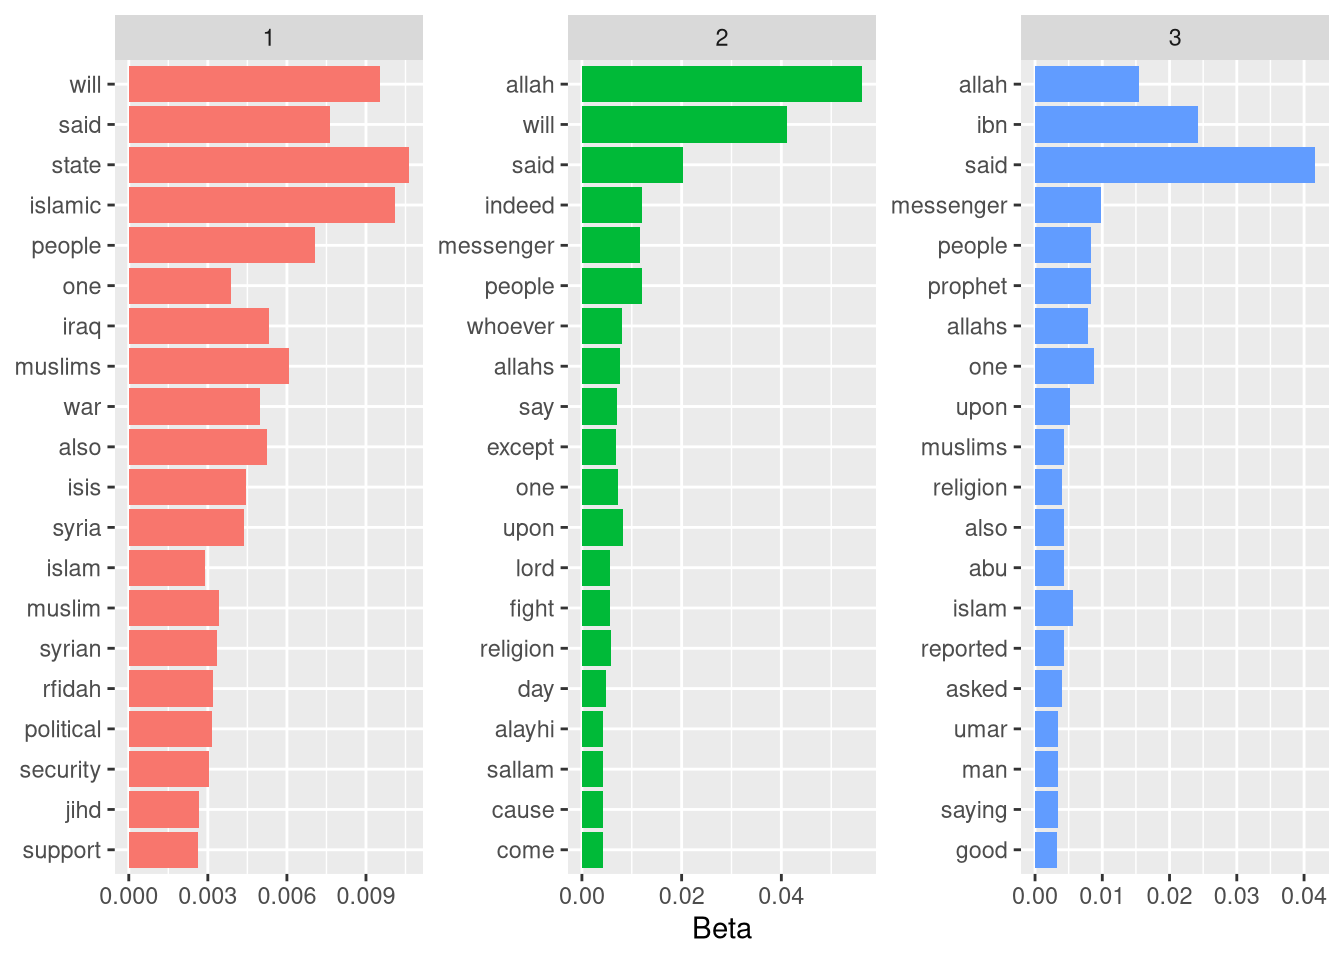
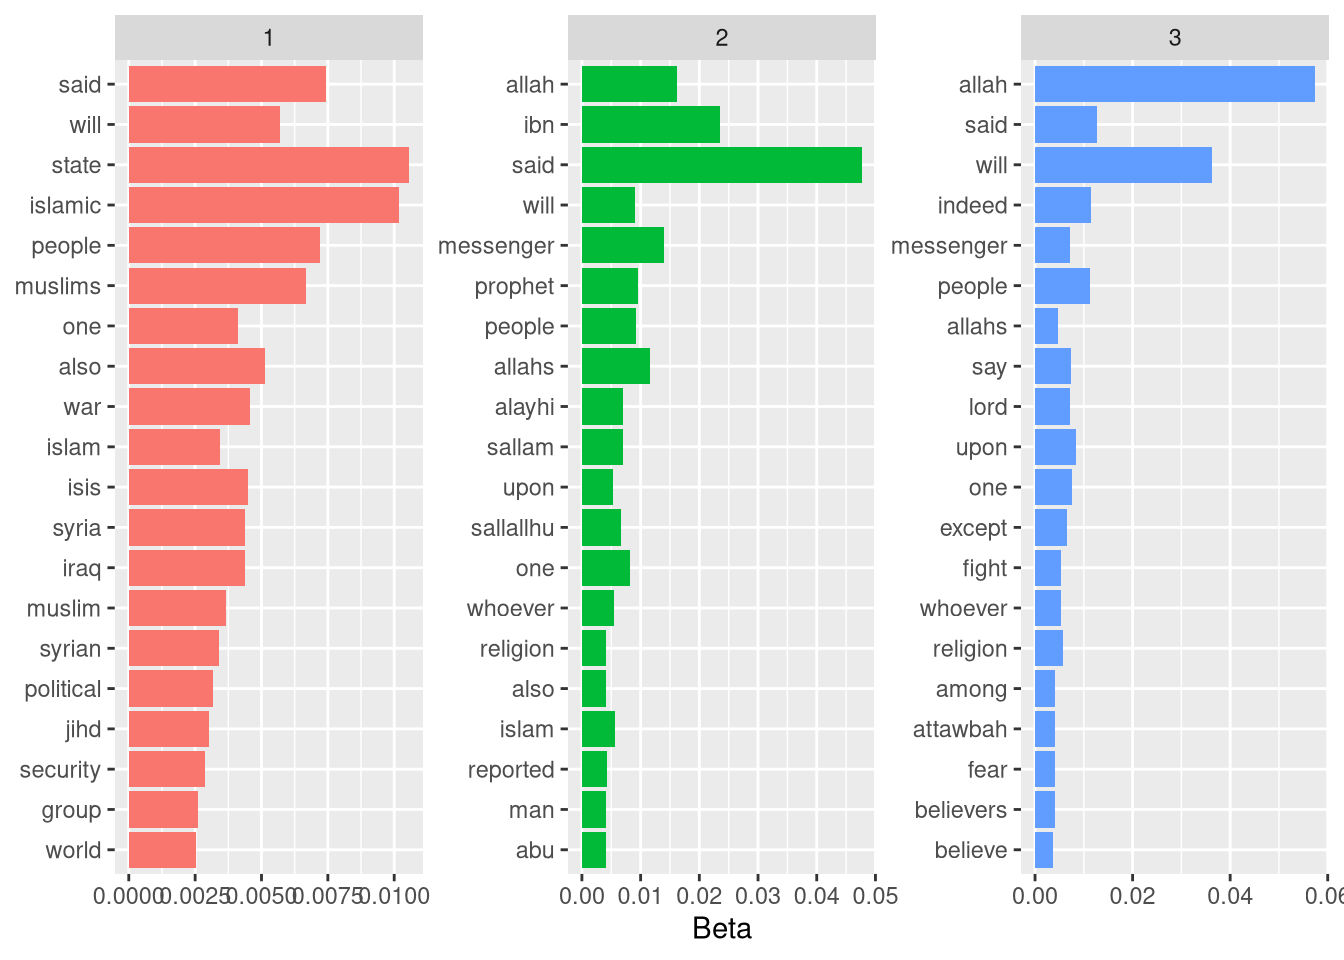
aaaaaaaa

diff --git a/public/post/isis-nlp-analysis/index.html b/public/post/isis-nlp-analysis/index.html
@@ -222,15 +222,15 @@ res</code></pre>
 ##    topic term       beta
 ##    &lt;int&gt; &lt;chr&gt;     &lt;dbl&gt;
 ##  1     1 state   0.0106 
-##  2     1 islamic 0.0101 
-##  3     1 will    0.00953
-##  4     1 said    0.00765
-##  5     1 people  0.00707
-##  6     1 muslims 0.00609
-##  7     1 iraq    0.00532
-##  8     1 also    0.00525
-##  9     1 war     0.00497
-## 10     1 isis    0.00446
+##  2     1 islamic 0.0102 
+##  3     1 said    0.00744
+##  4     1 people  0.00719
+##  5     1 muslims 0.00669
+##  6     1 will    0.00571
+##  7     1 also    0.00512
+##  8     1 war     0.00458
+##  9     1 isis    0.00449
+## 10     1 syria   0.00440
 ## # … with 50 more rows</code></pre>
 <p>O trecho acima é bem auto-explicativo, até mesmo devido aos comentários no código. Informações extras podem ser encontradas na documentação das funções.</p>
 <p>Vamos plotar as informações que conseguimos, assim é possível visualizarmos melhor o resultado.</p>

diff --git a/content/post/2020-04-22-escola-isis-de-radicalizacao-religiosa-uma-analise-com-nlp.html b/content/post/2020-04-22-escola-isis-de-radicalizacao-religiosa-uma-analise-com-nlp.html
@@ -95,15 +95,15 @@ res</code></pre>
 ##    topic term       beta
 ##    &lt;int&gt; &lt;chr&gt;     &lt;dbl&gt;
 ##  1     1 state   0.0106 
-##  2     1 islamic 0.0101 
-##  3     1 will    0.00953
-##  4     1 said    0.00765
-##  5     1 people  0.00707
-##  6     1 muslims 0.00609
-##  7     1 iraq    0.00532
-##  8     1 also    0.00525
-##  9     1 war     0.00497
-## 10     1 isis    0.00446
+##  2     1 islamic 0.0102 
+##  3     1 said    0.00744
+##  4     1 people  0.00719
+##  5     1 muslims 0.00669
+##  6     1 will    0.00571
+##  7     1 also    0.00512
+##  8     1 war     0.00458
+##  9     1 isis    0.00449
+## 10     1 syria   0.00440
 ## # … with 50 more rows</code></pre>
 <p>O trecho acima é bem auto-explicativo, até mesmo devido aos comentários no código. Informações extras podem ser encontradas na documentação das funções.</p>
 <p>Vamos plotar as informações que conseguimos, assim é possível visualizarmos melhor o resultado.</p>

diff --git a/public/about/index.html b/public/about/index.html
@@ -16,7 +16,7 @@
 <meta name="apple-mobile-web-app-status-bar-style" content="#f8f5ec">
 
 
-<meta name="author" content="João Pedor Oliveira" /><meta name="description" content="Olá queridos,
+<meta name="author" content="João Pedro Oliveira" /><meta name="description" content="Olá queridos,
 Meu nome é João Pedro Oliveira, eu sou graduando e pesquisador da área de Relações Internacionais. Atualmente pesquiso Processamento de Linguagem Natural (NLP), e Crimes Transnacionais em uma Instituição Pública de Pesquisa. Aqui no Blog devo falar bastante sobre NLP e Programação Funciona, visto que são os assuntos que mais me interessam. Caso queiram falar comigo pode me dar um alô no Twitter! No menu lateral você consegue encontrar outras formas de me contatar, como o LinkedIn e o Github." />
 
 

diff --git a/public/404.html b/public/404.html
@@ -16,7 +16,7 @@
 <meta name="apple-mobile-web-app-status-bar-style" content="#f8f5ec">
 
 
-<meta name="author" content="João Pedor Oliveira" /><meta name="description" content="Um blog sobre números, letras e suas interseções." />
+<meta name="author" content="João Pedro Oliveira" /><meta name="description" content="Um blog sobre números, letras e suas interseções." />
 
 
 

diff --git a/public/categories/dificuldade-intermediaria/index.html b/public/categories/dificuldade-intermediaria/index.html
@@ -16,7 +16,7 @@
 <meta name="apple-mobile-web-app-status-bar-style" content="#f8f5ec">
 
 
-<meta name="author" content="João Pedor Oliveira" /><meta name="description" content="Um blog sobre números, letras e suas interseções." />
+<meta name="author" content="João Pedro Oliveira" /><meta name="description" content="Um blog sobre números, letras e suas interseções." />
 
 
 

diff --git a/public/categories/dificuldade-intermediária/index.html b/public/categories/dificuldade-intermediária/index.html
@@ -16,7 +16,7 @@
 <meta name="apple-mobile-web-app-status-bar-style" content="#f8f5ec">
 
 
-<meta name="author" content="João Pedor Oliveira" /><meta name="description" content="Um blog sobre números, letras e suas interseções." />
+<meta name="author" content="João Pedro Oliveira" /><meta name="description" content="Um blog sobre números, letras e suas interseções." />
 
 
 

diff --git a/public/categories/index.html b/public/categories/index.html
@@ -16,7 +16,7 @@
 <meta name="apple-mobile-web-app-status-bar-style" content="#f8f5ec">
 
 
-<meta name="author" content="João Pedor Oliveira" /><meta name="description" content="Um blog sobre números, letras e suas interseções." />
+<meta name="author" content="João Pedro Oliveira" /><meta name="description" content="Um blog sobre números, letras e suas interseções." />
 
 
 

diff --git a/public/categories/lda/index.html b/public/categories/lda/index.html
@@ -16,7 +16,7 @@
 <meta name="apple-mobile-web-app-status-bar-style" content="#f8f5ec">
 
 
-<meta name="author" content="João Pedor Oliveira" /><meta name="description" content="Um blog sobre números, letras e suas interseções." />
+<meta name="author" content="João Pedro Oliveira" /><meta name="description" content="Um blog sobre números, letras e suas interseções." />
 
 
 

diff --git a/public/categories/nlp/index.html b/public/categories/nlp/index.html
@@ -16,7 +16,7 @@
 <meta name="apple-mobile-web-app-status-bar-style" content="#f8f5ec">
 
 
-<meta name="author" content="João Pedor Oliveira" /><meta name="description" content="Um blog sobre números, letras e suas interseções." />
+<meta name="author" content="João Pedro Oliveira" /><meta name="description" content="Um blog sobre números, letras e suas interseções." />
 
 
 

diff --git a/public/index.html b/public/index.html
@@ -16,7 +16,7 @@
 <meta name="apple-mobile-web-app-status-bar-style" content="#f8f5ec">
 
 
-<meta name="author" content="João Pedor Oliveira" /><meta name="description" content="Um blog sobre números, letras e suas interseções." />
+<meta name="author" content="João Pedro Oliveira" /><meta name="description" content="Um blog sobre números, letras e suas interseções." />
 
 
 

diff --git a/public/post/index.html b/public/post/index.html
@@ -16,7 +16,7 @@
 <meta name="apple-mobile-web-app-status-bar-style" content="#f8f5ec">
 
 
-<meta name="author" content="João Pedor Oliveira" /><meta name="description" content="Um blog sobre números, letras e suas interseções." />
+<meta name="author" content="João Pedro Oliveira" /><meta name="description" content="Um blog sobre números, letras e suas interseções." />
 
 
 

diff --git a/public/tags/index.html b/public/tags/index.html
@@ -16,7 +16,7 @@
 <meta name="apple-mobile-web-app-status-bar-style" content="#f8f5ec">
 
 
-<meta name="author" content="João Pedor Oliveira" /><meta name="description" content="Um blog sobre números, letras e suas interseções." />
+<meta name="author" content="João Pedro Oliveira" /><meta name="description" content="Um blog sobre números, letras e suas interseções." />
 
 
 
